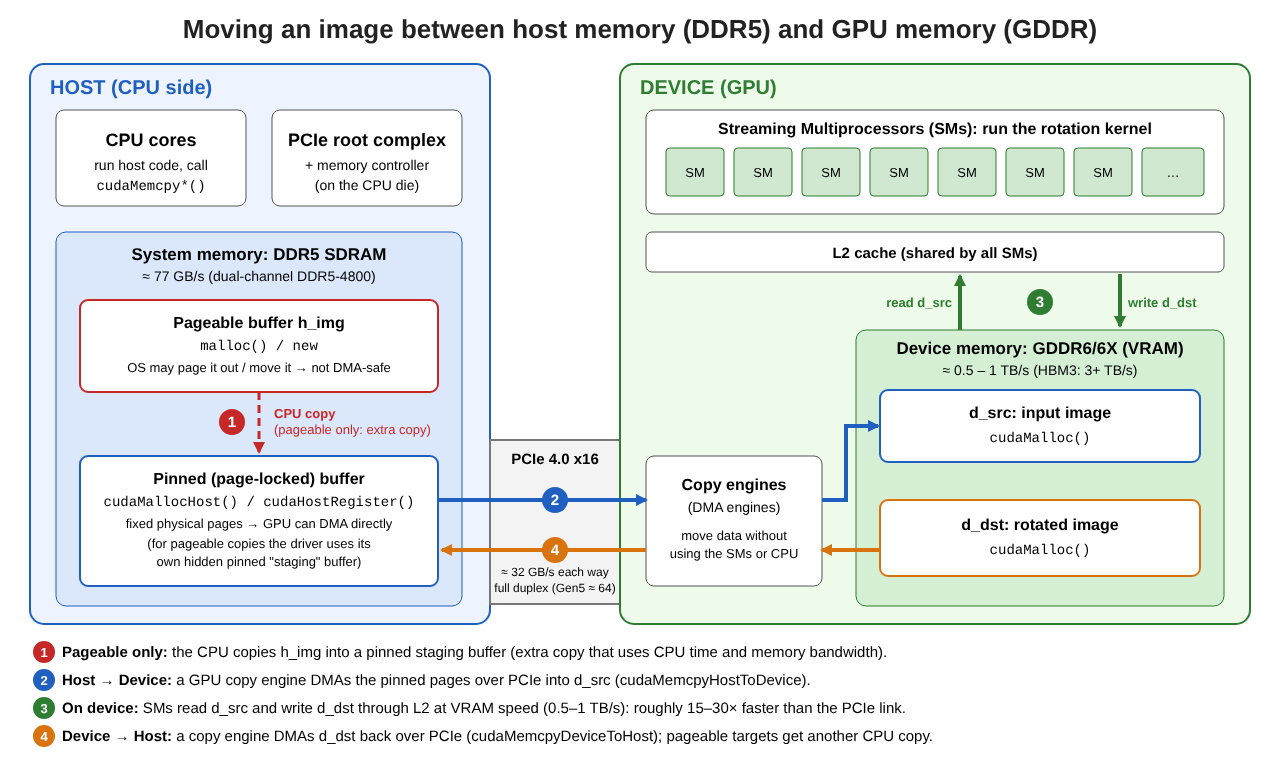
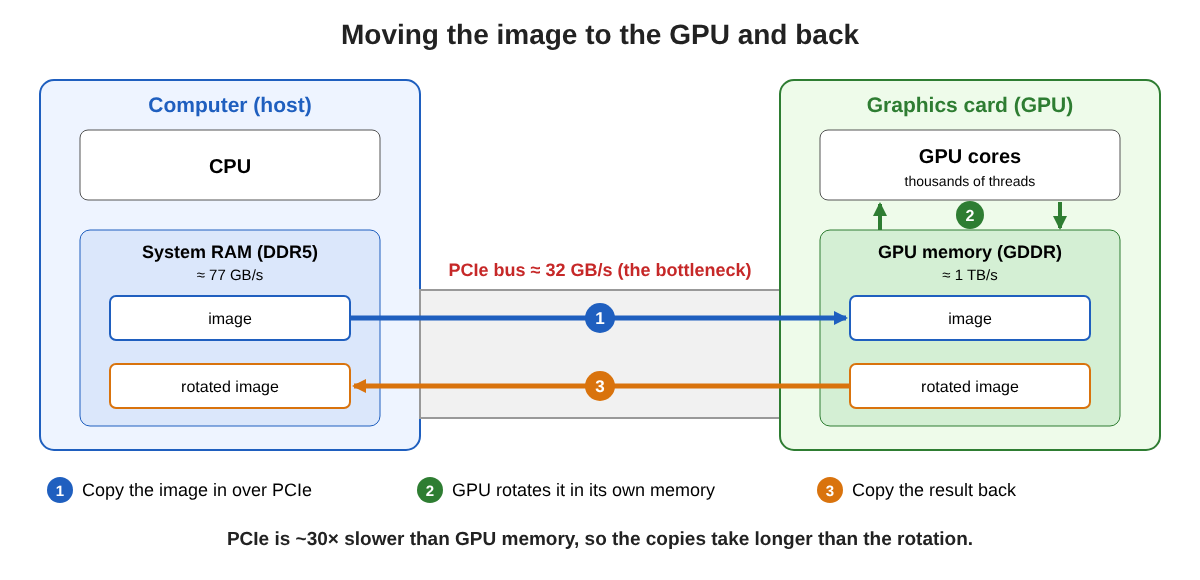
Simplify Task 1a transfer diagram to the three essential steps
Claude-Session: https://claude.ai/code/session_01HT5UUhWrDSjaBpVGng7Jx2

diff --git a/Applied 2 (Week 10)/Task1/1a/Task1a_Writeup.md b/Applied 2 (Week 10)/Task1/1a/Task1a_Writeup.md
@@ -8,7 +8,7 @@ bus**, and the rotated result must be copied back. These copies are done by the 
 engines** and are the slowest link in the chain. For a light, **memory-bound** kernel like rotation, they
 take more time than the computation.
 
-*Diagram: `diagram_1a_transfer_path.png`*
+*Diagram: `diagram_1a_transfer_path.png` (simplified: copy in over PCIe → rotate in GDDR → copy back)*
 
 ## 2. Hardware involved
 
@@ -24,7 +24,6 @@ take more time than the computation.
 
 ## 3. The transfer, step by step
 
-Numbers match the diagram.
 
 **Pageable host memory** (`malloc`/`new`, the default case):
 
